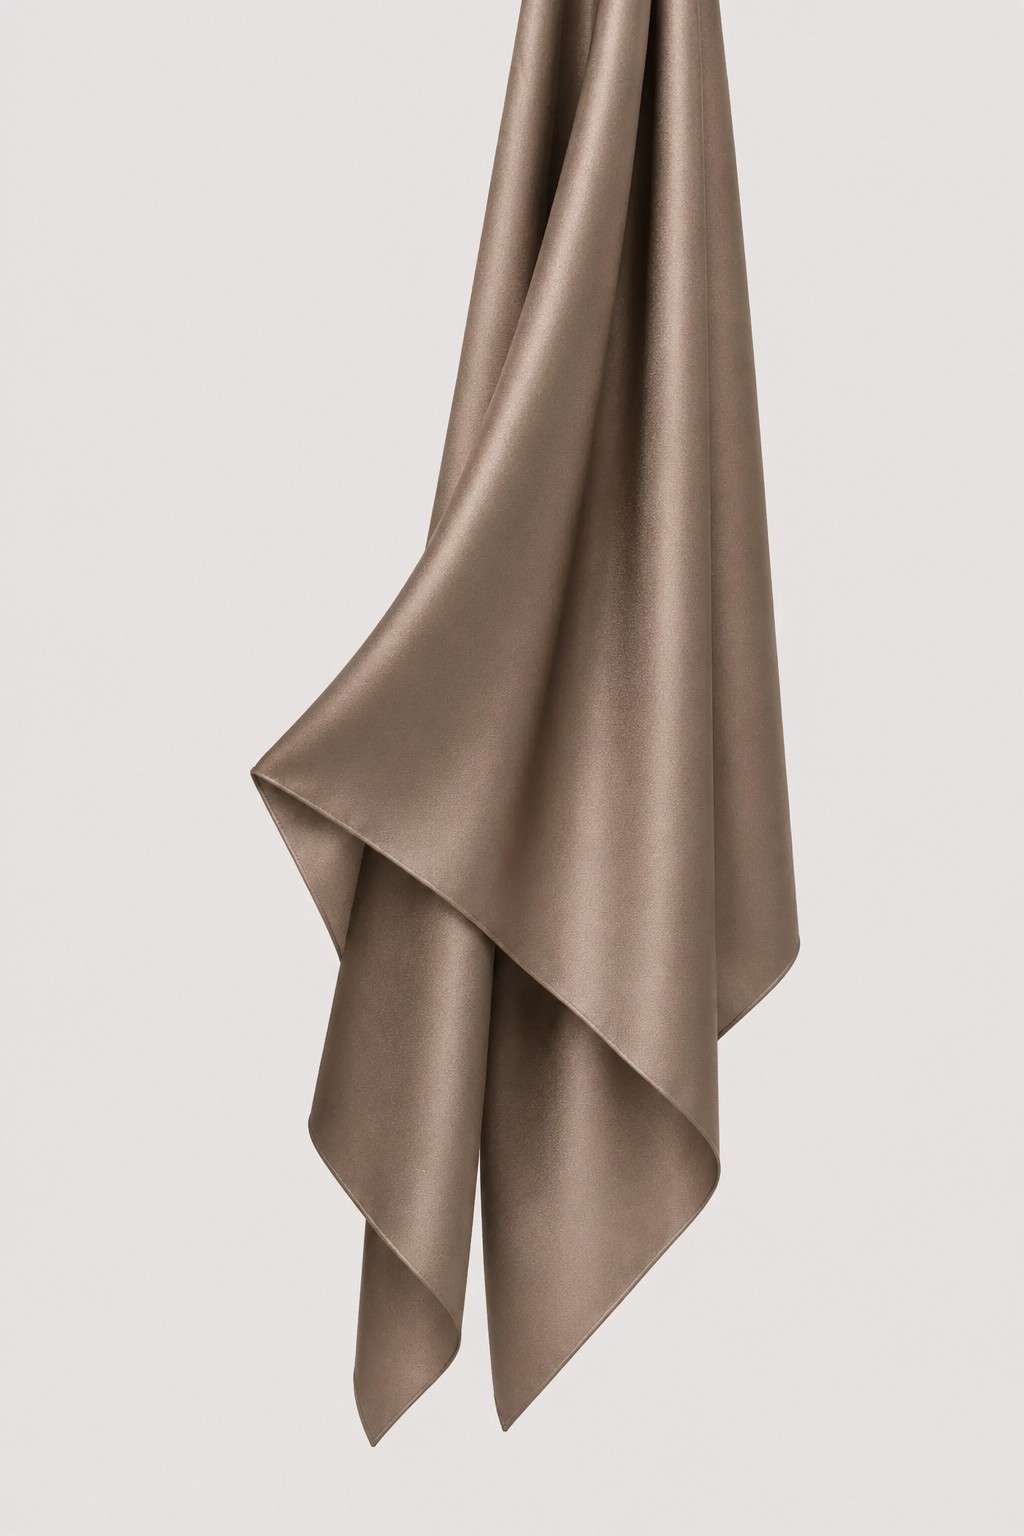
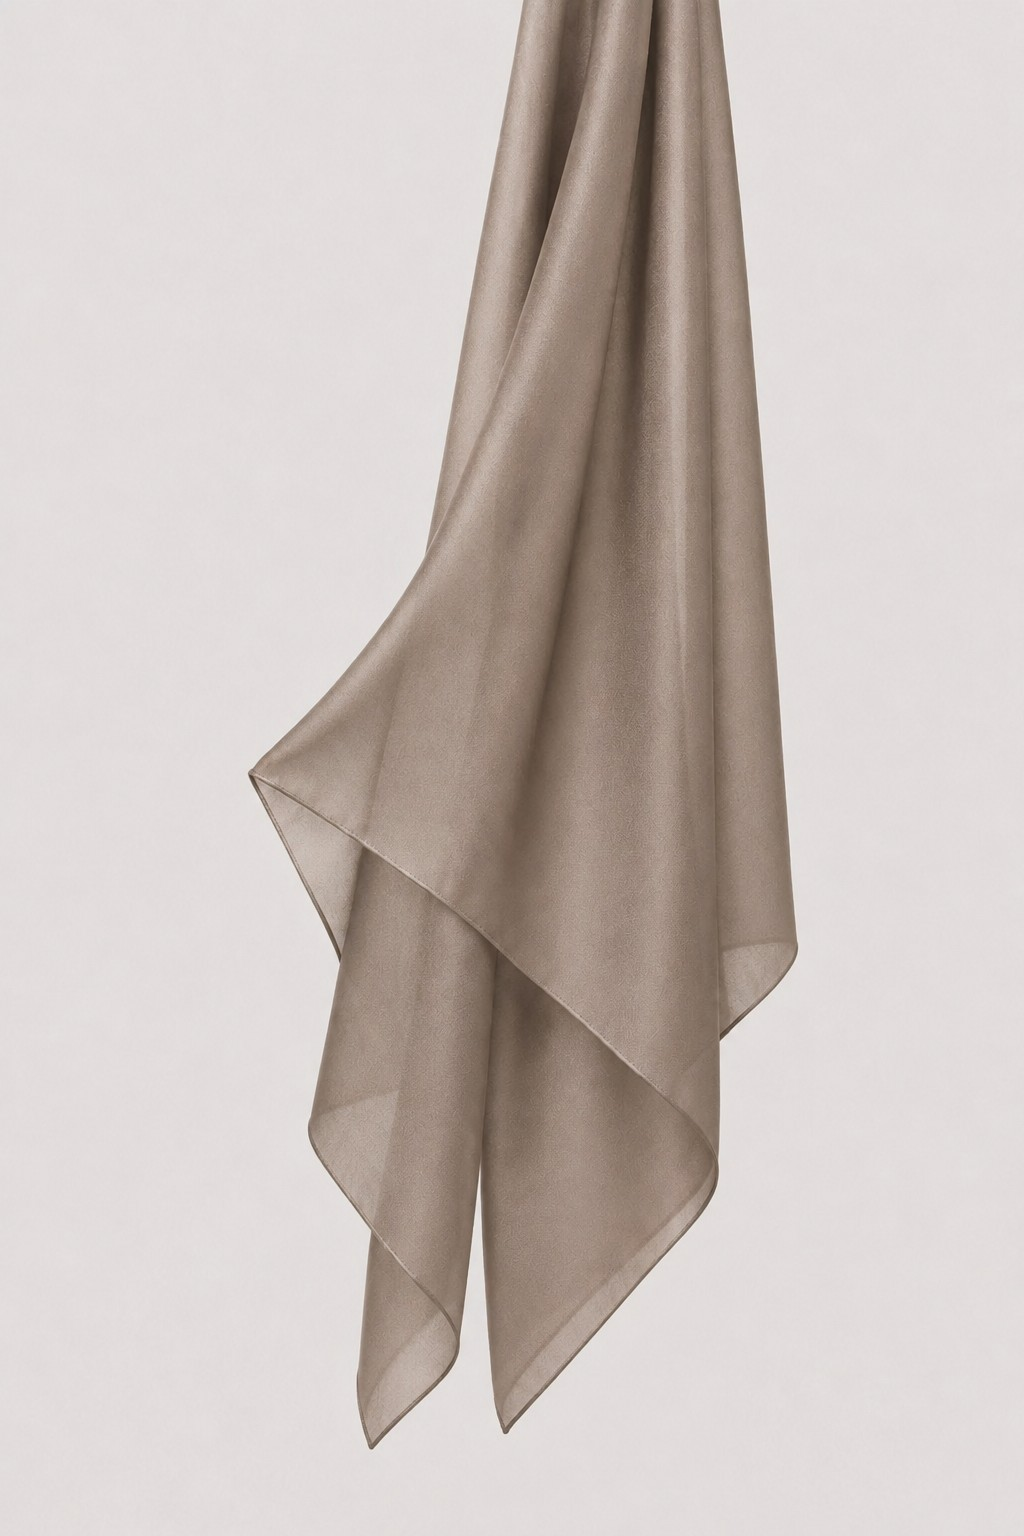
Add hover images for 40s/50s/Lenzing/Tencel Modal fabric cards

Changed region(s): [[0.25, 0.0, 0.7812, 0.9375]]

diff --git a/src/data/site.js b/src/data/site.js
@@ -458,6 +458,7 @@ export const MODAL = [
     id: "modal-40s",
     name: "40s Modal",
     image: "/assets/images/fabrics/modal-40s.webp",
+    hover: "/assets/images/fabrics/modal-40s-hover.jpg",
     hover: "/assets/images/fabrics/modal-40s-drape.webp",
     gsm: [65, 140],
     handFeel:
@@ -468,6 +469,7 @@ export const MODAL = [
     id: "modal-50s",
     name: "50s Modal",
     image: "/assets/images/fabrics/modal-50s.webp",
+    hover: "/assets/images/fabrics/modal-50s-hover.jpg",
     hover: "/assets/images/fabrics/modal-50s-drape.webp",
     gsm: [60, 140],
     handFeel:
@@ -488,6 +490,7 @@ export const MODAL = [
     id: "modal-lenzing",
     name: "Lenzing Modal",
     image: "/assets/images/fabrics/modal-lenzing.webp",
+    hover: "/assets/images/fabrics/modal-lenzing-hover.jpg",
     hover: "/assets/images/fabrics/modal-lenzing-drape.webp",
     gsm: [60, 140],
     handFeel:
